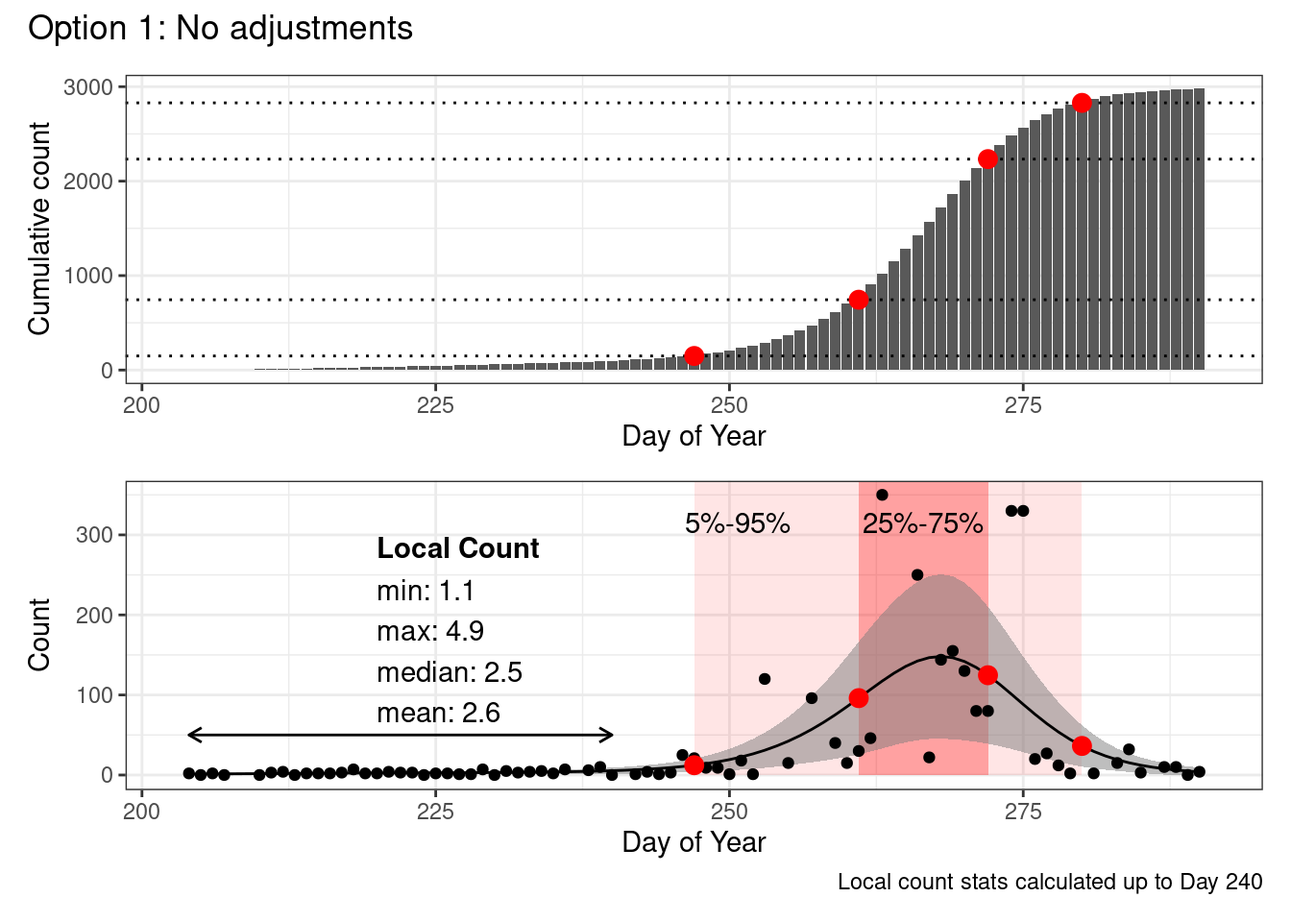
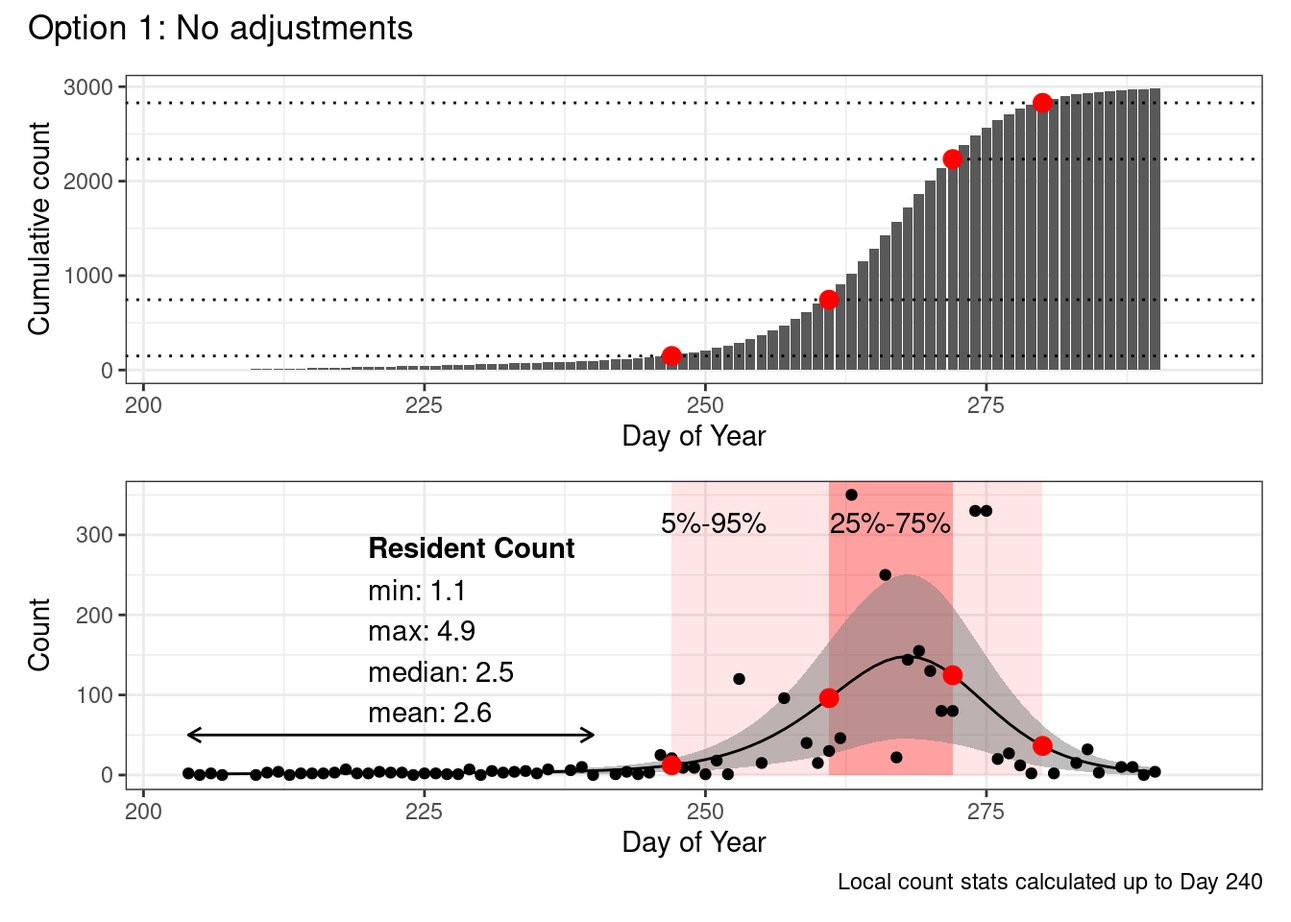
Update and add reproducibility

diff --git a/01_initial_exploration.html b/01_initial_exploration.html
@@ -7,7 +7,7 @@
 <meta name="viewport" content="width=device-width, initial-scale=1.0, user-scalable=yes">
 
 <meta name="author" content="Steffi">
-<meta name="dcterms.date" content="2023-11-07">
+<meta name="dcterms.date" content="2023-11-15">
 
 <title>Initial Exploration</title>
 <style>
@@ -90,15 +90,16 @@ pre > code.sourceCode > span > a:first-child::before { text-decoration: underlin
   <ul class="collapse">
   <li><a href="#steffis-suggested-approach" id="toc-steffis-suggested-approach" class="nav-link" data-scroll-target="#steffis-suggested-approach">Steffi’s suggested approach</a></li>
   </ul></li>
-  <li><a href="#using-gam-based-appraoch" id="toc-using-gam-based-appraoch" class="nav-link" data-scroll-target="#using-gam-based-appraoch">Using GAM based appraoch</a>
+  <li><a href="#gam" id="toc-gam" class="nav-link" data-scroll-target="#gam">Using GAM based appraoch</a>
   <ul class="collapse">
   <li><a href="#calculating-dates-of-passage" id="toc-calculating-dates-of-passage" class="nav-link" data-scroll-target="#calculating-dates-of-passage">Calculating dates of passage</a></li>
   <li><a href="#option-1-do-not-omit-resident-vultures" id="toc-option-1-do-not-omit-resident-vultures" class="nav-link" data-scroll-target="#option-1-do-not-omit-resident-vultures">Option 1: Do not omit resident vultures</a></li>
   <li><a href="#option-2-use-a-count-threshold-to-omit-dates-with-resident-vultures" id="toc-option-2-use-a-count-threshold-to-omit-dates-with-resident-vultures" class="nav-link" data-scroll-target="#option-2-use-a-count-threshold-to-omit-dates-with-resident-vultures">Option 2: Use a count threshold to omit dates with resident vultures</a></li>
-  <li><a href="#option-3-subtract-the-median-local-count-from-all-observations" id="toc-option-3-subtract-the-median-local-count-from-all-observations" class="nav-link" data-scroll-target="#option-3-subtract-the-median-local-count-from-all-observations">Option 3: Subtract the median local count from all observations</a></li>
+  <li><a href="#option-3" id="toc-option-3" class="nav-link" data-scroll-target="#option-3">Option 3: Subtract the median resident count from all observations</a></li>
   <li><a href="#comparing-our-options" id="toc-comparing-our-options" class="nav-link" data-scroll-target="#comparing-our-options">Comparing our options</a></li>
   <li><a href="#steffis-suggested-approach-1" id="toc-steffis-suggested-approach-1" class="nav-link" data-scroll-target="#steffis-suggested-approach-1">Steffi’s suggested approach</a></li>
   </ul></li>
+  <li><a href="#reproducibility" id="toc-reproducibility" class="nav-link" data-scroll-target="#reproducibility">Reproducibility</a></li>
   </ul>
 </nav>
 </div>
@@ -123,7 +124,7 @@ pre > code.sourceCode > span > a:first-child::before { text-decoration: underlin
     <div>
     <div class="quarto-title-meta-heading">Published</div>
     <div class="quarto-title-meta-contents">
-      <p class="date">November 7, 2023</p>
+      <p class="date">November 15, 2023</p>
     </div>
   </div>
   
@@ -288,7 +289,7 @@ pre > code.sourceCode > span > a:first-child::before { text-decoration: underlin
 <section id="questions" class="level2">
 <h2 class="anchored" data-anchor-id="questions">Questions</h2>
 <ol type="1">
-<li>Has the timing of kettle formating and migration has changed over the years?
+<li>Has the timing of kettle formation and migration has changed over the years?
 <ul>
 <li>If so, what is the pattern of change? (Direction and magnitude of change)</li>
 <li>If not, document temporal distribution of numbers</li>
@@ -345,8 +346,8 @@ pre > code.sourceCode > span > a:first-child::before { text-decoration: underlin
 <p>However, we will need to think about how to handle the resident birds, as they may artificially inflate the cumulative counts prior to migration.</p>
 </section>
 </section>
-<section id="using-gam-based-appraoch" class="level2">
-<h2 class="anchored" data-anchor-id="using-gam-based-appraoch">Using GAM based appraoch</h2>
+<section id="gam" class="level2">
+<h2 class="anchored" data-anchor-id="gam">Using GAM based appraoch</h2>
 <p>For illustration and exploration of this approach, we’ll look at 2000.</p>
 <div class="tabset-margin-container"></div><div class="panel-tabset">
 <ul class="nav nav-tabs" role="tablist"><li class="nav-item" role="presentation"><a class="nav-link active" id="tabset-4-1-tab" data-bs-toggle="tab" data-bs-target="#tabset-4-1" role="tab" aria-controls="tabset-4-1" aria-selected="true" href="">Example GAM - 2000</a></li><li class="nav-item" role="presentation"><a class="nav-link" id="tabset-4-2-tab" data-bs-toggle="tab" data-bs-target="#tabset-4-2" role="tab" aria-controls="tabset-4-2" aria-selected="false" href="">Model summary</a></li><li class="nav-item" role="presentation"><a class="nav-link" id="tabset-4-3-tab" data-bs-toggle="tab" data-bs-target="#tabset-4-3" role="tab" aria-controls="tabset-4-3" aria-selected="false" href="">Model evaluation</a></li></ul>
@@ -421,7 +422,7 @@ Basis dimension (k) checking results. Low p-value (k-index&lt;1) may
 indicate that k is too low, especially if edf is close to k'.
 
          k'  edf k-index p-value
-s(doy) 9.00 5.48    1.01    0.74</code></pre>
+s(doy) 9.00 5.48    1.01    0.76</code></pre>
 </div>
 <details>
 <summary>Code</summary>
@@ -470,14 +471,14 @@ s(doy) 9.00 5.48    1.01    0.74</code></pre>
 <span id="cb22-3"><a href="#cb22-3" aria-hidden="true" tabindex="-1"></a>dts <span class="ot">&lt;-</span> <span class="fu">calc_dates</span>(d_sum)</span>
 <span id="cb22-4"><a href="#cb22-4" aria-hidden="true" tabindex="-1"></a>dts_overall <span class="ot">&lt;-</span> <span class="fu">mutate</span>(dts, <span class="at">type =</span> <span class="st">"Option 1: No Adjustments"</span>)</span>
 <span id="cb22-5"><a href="#cb22-5" aria-hidden="true" tabindex="-1"></a></span>
-<span id="cb22-6"><a href="#cb22-6" aria-hidden="true" tabindex="-1"></a>local <span class="ot">&lt;-</span> d <span class="sc">|&gt;</span></span>
+<span id="cb22-6"><a href="#cb22-6" aria-hidden="true" tabindex="-1"></a>residents <span class="ot">&lt;-</span> d <span class="sc">|&gt;</span></span>
 <span id="cb22-7"><a href="#cb22-7" aria-hidden="true" tabindex="-1"></a>  <span class="fu">filter</span>(doy <span class="sc">&lt;</span> <span class="dv">240</span>) <span class="sc">|&gt;</span></span>
-<span id="cb22-8"><a href="#cb22-8" aria-hidden="true" tabindex="-1"></a>  <span class="fu">summarize</span>(<span class="at">min =</span> <span class="fu">min</span>(count), <span class="at">max =</span> <span class="fu">max</span>(count), </span>
-<span id="cb22-9"><a href="#cb22-9" aria-hidden="true" tabindex="-1"></a>            <span class="at">median =</span> <span class="fu">median</span>(count), <span class="at">mean =</span> <span class="fu">mean</span>(count)) <span class="sc">|&gt;</span></span>
+<span id="cb22-8"><a href="#cb22-8" aria-hidden="true" tabindex="-1"></a>  <span class="fu">summarize</span>(<span class="at">res_pop_min =</span> <span class="fu">min</span>(count), <span class="at">res_pop_max =</span> <span class="fu">max</span>(count), </span>
+<span id="cb22-9"><a href="#cb22-9" aria-hidden="true" tabindex="-1"></a>            <span class="at">res_pop_median =</span> <span class="fu">median</span>(count), <span class="at">res_pop_mean =</span> <span class="fu">mean</span>(count)) <span class="sc">|&gt;</span></span>
 <span id="cb22-10"><a href="#cb22-10" aria-hidden="true" tabindex="-1"></a>  <span class="fu">mutate</span>(<span class="fu">across</span>(<span class="fu">everything</span>(), \(x) <span class="fu">round</span>(x, <span class="dv">1</span>)))</span>
 <span id="cb22-11"><a href="#cb22-11" aria-hidden="true" tabindex="-1"></a></span>
-<span id="cb22-12"><a href="#cb22-12" aria-hidden="true" tabindex="-1"></a>g1 <span class="ot">&lt;-</span> <span class="fu">plot_cum</span>(<span class="at">d_sum =</span> d_sum, <span class="at">dts =</span> dts)</span>
-<span id="cb22-13"><a href="#cb22-13" aria-hidden="true" tabindex="-1"></a>g2 <span class="ot">&lt;-</span> <span class="fu">plot_model</span>(<span class="at">d_raw =</span> g<span class="sc">$</span>model, <span class="at">d_pred =</span> d, <span class="at">dts =</span> dts, <span class="at">local_cutoff =</span> <span class="dv">240</span>) <span class="sc">+</span></span>
+<span id="cb22-12"><a href="#cb22-12" aria-hidden="true" tabindex="-1"></a>g1 <span class="ot">&lt;-</span> <span class="fu">plot_cum_explore</span>(<span class="at">d_sum =</span> d_sum, <span class="at">dts =</span> dts)</span>
+<span id="cb22-13"><a href="#cb22-13" aria-hidden="true" tabindex="-1"></a>g2 <span class="ot">&lt;-</span> <span class="fu">plot_model_explore</span>(<span class="at">d_raw =</span> g<span class="sc">$</span>model, <span class="at">d_pred =</span> d, <span class="at">dts =</span> dts, residents, <span class="at">resident_date =</span> <span class="dv">240</span>) <span class="sc">+</span></span>
 <span id="cb22-14"><a href="#cb22-14" aria-hidden="true" tabindex="-1"></a>  <span class="fu">labs</span>(<span class="at">caption =</span> <span class="st">"Local count stats calculated up to Day 240"</span>)</span>
 <span id="cb22-15"><a href="#cb22-15" aria-hidden="true" tabindex="-1"></a>g_opt1 <span class="ot">&lt;-</span> g1 <span class="sc">/</span> g2 <span class="sc">+</span> <span class="fu">plot_annotation</span>(<span class="at">title =</span> <span class="st">"Option 1: No adjustments"</span>)</span></code><button title="Copy to Clipboard" class="code-copy-button"><i class="bi"></i></button></pre></div>
 </details>
@@ -563,54 +564,54 @@ s(doy) 9.00 5.48    1.01    0.74</code></pre>
 <span id="cb26-5"><a href="#cb26-5" aria-hidden="true" tabindex="-1"></a>dts_overall <span class="ot">&lt;-</span> <span class="fu">bind_rows</span>(dts_overall, </span>
 <span id="cb26-6"><a href="#cb26-6" aria-hidden="true" tabindex="-1"></a>                         <span class="fu">mutate</span>(dts, <span class="at">type =</span> <span class="st">"Option 2: Threshold"</span>))</span>
 <span id="cb26-7"><a href="#cb26-7" aria-hidden="true" tabindex="-1"></a></span>
-<span id="cb26-8"><a href="#cb26-8" aria-hidden="true" tabindex="-1"></a>local <span class="ot">&lt;-</span> d <span class="sc">|&gt;</span></span>
+<span id="cb26-8"><a href="#cb26-8" aria-hidden="true" tabindex="-1"></a>residents <span class="ot">&lt;-</span> d <span class="sc">|&gt;</span></span>
 <span id="cb26-9"><a href="#cb26-9" aria-hidden="true" tabindex="-1"></a>  <span class="fu">filter</span>(doy <span class="sc">&lt;</span> thresh) <span class="sc">|&gt;</span></span>
-<span id="cb26-10"><a href="#cb26-10" aria-hidden="true" tabindex="-1"></a>  <span class="fu">summarize</span>(<span class="at">min =</span> <span class="fu">min</span>(count), <span class="at">max =</span> <span class="fu">max</span>(count), </span>
-<span id="cb26-11"><a href="#cb26-11" aria-hidden="true" tabindex="-1"></a>            <span class="at">median =</span> <span class="fu">median</span>(count), <span class="at">mean =</span> <span class="fu">mean</span>(count)) <span class="sc">|&gt;</span></span>
+<span id="cb26-10"><a href="#cb26-10" aria-hidden="true" tabindex="-1"></a>  <span class="fu">summarize</span>(<span class="at">res_pop_min =</span> <span class="fu">min</span>(count), <span class="at">res_pop_max =</span> <span class="fu">max</span>(count), </span>
+<span id="cb26-11"><a href="#cb26-11" aria-hidden="true" tabindex="-1"></a>            <span class="at">res_pop_median =</span> <span class="fu">median</span>(count), <span class="at">res_pop_mean =</span> <span class="fu">mean</span>(count)) <span class="sc">|&gt;</span></span>
 <span id="cb26-12"><a href="#cb26-12" aria-hidden="true" tabindex="-1"></a>  <span class="fu">mutate</span>(<span class="fu">across</span>(<span class="fu">everything</span>(), \(x) <span class="fu">round</span>(x, <span class="dv">1</span>)))</span>
 <span id="cb26-13"><a href="#cb26-13" aria-hidden="true" tabindex="-1"></a></span>
 <span id="cb26-14"><a href="#cb26-14" aria-hidden="true" tabindex="-1"></a></span>
-<span id="cb26-15"><a href="#cb26-15" aria-hidden="true" tabindex="-1"></a>g1 <span class="ot">&lt;-</span> <span class="fu">plot_cum</span>(d_sum, dts) <span class="sc">+</span></span>
+<span id="cb26-15"><a href="#cb26-15" aria-hidden="true" tabindex="-1"></a>g1 <span class="ot">&lt;-</span> <span class="fu">plot_cum_explore</span>(d_sum, dts) <span class="sc">+</span></span>
 <span id="cb26-16"><a href="#cb26-16" aria-hidden="true" tabindex="-1"></a>  <span class="fu">geom_vline</span>(<span class="at">xintercept =</span> thresh, <span class="at">colour =</span> <span class="st">"red"</span>, <span class="at">linetype =</span> <span class="st">"dotted"</span>) <span class="sc">+</span></span>
 <span id="cb26-17"><a href="#cb26-17" aria-hidden="true" tabindex="-1"></a>  <span class="fu">annotate</span>(<span class="st">"text"</span>, <span class="at">label =</span> <span class="st">"Threshold"</span>, <span class="at">x =</span> thresh, <span class="at">y =</span> <span class="dv">1000</span>)</span>
-<span id="cb26-18"><a href="#cb26-18" aria-hidden="true" tabindex="-1"></a>g2 <span class="ot">&lt;-</span> <span class="fu">plot_model</span>(<span class="at">d_raw =</span> g<span class="sc">$</span>model, <span class="at">d_pred =</span> d, <span class="at">dts =</span> dts, <span class="at">local_cutoff =</span> thresh) <span class="sc">+</span></span>
-<span id="cb26-19"><a href="#cb26-19" aria-hidden="true" tabindex="-1"></a>  <span class="fu">labs</span>(<span class="at">caption =</span> <span class="fu">paste0</span>(<span class="st">"Local count stats calculated up to threshold date, "</span>, thresh))</span>
+<span id="cb26-18"><a href="#cb26-18" aria-hidden="true" tabindex="-1"></a>g2 <span class="ot">&lt;-</span> <span class="fu">plot_model_explore</span>(<span class="at">d_raw =</span> g<span class="sc">$</span>model, <span class="at">d_pred =</span> d, <span class="at">dts =</span> dts, residents, <span class="at">resident_date =</span> thresh) <span class="sc">+</span></span>
+<span id="cb26-19"><a href="#cb26-19" aria-hidden="true" tabindex="-1"></a>  <span class="fu">labs</span>(<span class="at">caption =</span> <span class="fu">paste0</span>(<span class="st">"Resident count stats calculated up to threshold date, "</span>, thresh))</span>
 <span id="cb26-20"><a href="#cb26-20" aria-hidden="true" tabindex="-1"></a>  </span>
 <span id="cb26-21"><a href="#cb26-21" aria-hidden="true" tabindex="-1"></a>g_opt2 <span class="ot">&lt;-</span> g1 <span class="sc">/</span> g2 <span class="sc">+</span> <span class="fu">plot_annotation</span>(<span class="at">title =</span> <span class="st">"Option 2: Use only dates after threshold"</span>)</span></code><button title="Copy to Clipboard" class="code-copy-button"><i class="bi"></i></button></pre></div>
 </details>
 </div>
 </section>
-<section id="option-3-subtract-the-median-local-count-from-all-observations" class="level3">
-<h3 class="anchored" data-anchor-id="option-3-subtract-the-median-local-count-from-all-observations">Option 3: Subtract the median local count from all observations</h3>
+<section id="option-3" class="level3">
+<h3 class="anchored" data-anchor-id="option-3">Option 3: Subtract the median resident count from all observations</h3>
 <ul>
 <li>Use entire date range</li>
 <li>No threshold cutoff</li>
-<li>Subtract the median local count from the predicted observations, prior to calculating the cumulative counts</li>
-<li>Calculate local counts from predicted data before Day 240</li>
+<li>Subtract the median resident count from the predicted observations, prior to calculating the cumulative counts</li>
+<li>Calculate resident counts from predicted data before Day 240</li>
 </ul>
 <div class="cell">
 <details>
 <summary>Code</summary>
-<div class="sourceCode cell-code" id="cb27"><pre class="sourceCode r code-with-copy"><code class="sourceCode r"><span id="cb27-1"><a href="#cb27-1" aria-hidden="true" tabindex="-1"></a>local <span class="ot">&lt;-</span> d <span class="sc">|&gt;</span></span>
+<div class="sourceCode cell-code" id="cb27"><pre class="sourceCode r code-with-copy"><code class="sourceCode r"><span id="cb27-1"><a href="#cb27-1" aria-hidden="true" tabindex="-1"></a>residents <span class="ot">&lt;-</span> d <span class="sc">|&gt;</span></span>
 <span id="cb27-2"><a href="#cb27-2" aria-hidden="true" tabindex="-1"></a>  <span class="fu">filter</span>(doy <span class="sc">&lt;</span> <span class="dv">240</span>) <span class="sc">|&gt;</span></span>
-<span id="cb27-3"><a href="#cb27-3" aria-hidden="true" tabindex="-1"></a>  <span class="fu">summarize</span>(<span class="at">min =</span> <span class="fu">min</span>(count), <span class="at">max =</span> <span class="fu">max</span>(count), </span>
-<span id="cb27-4"><a href="#cb27-4" aria-hidden="true" tabindex="-1"></a>            <span class="at">median =</span> <span class="fu">median</span>(count), <span class="at">mean =</span> <span class="fu">mean</span>(count)) <span class="sc">|&gt;</span></span>
+<span id="cb27-3"><a href="#cb27-3" aria-hidden="true" tabindex="-1"></a>  <span class="fu">summarize</span>(<span class="at">res_pop_min =</span> <span class="fu">min</span>(count), <span class="at">res_pop_max =</span> <span class="fu">max</span>(count), </span>
+<span id="cb27-4"><a href="#cb27-4" aria-hidden="true" tabindex="-1"></a>            <span class="at">res_pop_median =</span> <span class="fu">median</span>(count), <span class="at">res_pop_mean =</span> <span class="fu">mean</span>(count)) <span class="sc">|&gt;</span></span>
 <span id="cb27-5"><a href="#cb27-5" aria-hidden="true" tabindex="-1"></a>  <span class="fu">mutate</span>(<span class="fu">across</span>(<span class="fu">everything</span>(), \(x) <span class="fu">round</span>(x, <span class="dv">1</span>)))</span>
 <span id="cb27-6"><a href="#cb27-6" aria-hidden="true" tabindex="-1"></a></span>
 <span id="cb27-7"><a href="#cb27-7" aria-hidden="true" tabindex="-1"></a>d_sum <span class="ot">&lt;-</span> <span class="fu">mutate</span>(d, </span>
-<span id="cb27-8"><a href="#cb27-8" aria-hidden="true" tabindex="-1"></a>                <span class="at">count =</span> count <span class="sc">-</span> local<span class="sc">$</span>median,</span>
+<span id="cb27-8"><a href="#cb27-8" aria-hidden="true" tabindex="-1"></a>                <span class="at">count =</span> count <span class="sc">-</span> residents<span class="sc">$</span>res_pop_median,</span>
 <span id="cb27-9"><a href="#cb27-9" aria-hidden="true" tabindex="-1"></a>                <span class="at">count_sum =</span> <span class="fu">cumsum</span>(count))</span>
 <span id="cb27-10"><a href="#cb27-10" aria-hidden="true" tabindex="-1"></a></span>
 <span id="cb27-11"><a href="#cb27-11" aria-hidden="true" tabindex="-1"></a>dts <span class="ot">&lt;-</span> <span class="fu">calc_dates</span>(d_sum)</span>
 <span id="cb27-12"><a href="#cb27-12" aria-hidden="true" tabindex="-1"></a>dts_overall <span class="ot">&lt;-</span> <span class="fu">bind_rows</span>(dts_overall, </span>
 <span id="cb27-13"><a href="#cb27-13" aria-hidden="true" tabindex="-1"></a>                         <span class="fu">mutate</span>(dts, <span class="at">type =</span> <span class="st">"Option 3: Subtraction"</span>))</span>
 <span id="cb27-14"><a href="#cb27-14" aria-hidden="true" tabindex="-1"></a></span>
-<span id="cb27-15"><a href="#cb27-15" aria-hidden="true" tabindex="-1"></a>g1 <span class="ot">&lt;-</span> <span class="fu">plot_cum</span>(<span class="at">d_sum =</span> d_sum, <span class="at">dts =</span> dts) <span class="sc">+</span></span>
+<span id="cb27-15"><a href="#cb27-15" aria-hidden="true" tabindex="-1"></a>g1 <span class="ot">&lt;-</span> <span class="fu">plot_cum_explore</span>(<span class="at">d_sum =</span> d_sum, <span class="at">dts =</span> dts) <span class="sc">+</span></span>
 <span id="cb27-16"><a href="#cb27-16" aria-hidden="true" tabindex="-1"></a>  <span class="fu">annotate</span>(<span class="st">"text"</span>, <span class="at">x =</span> <span class="dv">225</span>, <span class="at">y =</span> <span class="dv">1000</span>,</span>
 <span id="cb27-17"><a href="#cb27-17" aria-hidden="true" tabindex="-1"></a>           <span class="at">label =</span> <span class="fu">paste0</span>(<span class="st">"Remove "</span>, </span>
-<span id="cb27-18"><a href="#cb27-18" aria-hidden="true" tabindex="-1"></a>                          local<span class="sc">$</span>median, </span>
+<span id="cb27-18"><a href="#cb27-18" aria-hidden="true" tabindex="-1"></a>                          residents<span class="sc">$</span>res_pop_median, </span>
 <span id="cb27-19"><a href="#cb27-19" aria-hidden="true" tabindex="-1"></a>                          <span class="st">" from all counts</span><span class="sc">\n</span><span class="st">before calcuating cumuative sum"</span>))</span>
-<span id="cb27-20"><a href="#cb27-20" aria-hidden="true" tabindex="-1"></a>g2 <span class="ot">&lt;-</span> <span class="fu">plot_model</span>(<span class="at">d_raw =</span> g<span class="sc">$</span>model, <span class="at">d_pred =</span> d, <span class="at">dts =</span> dts, <span class="at">local_cutoff =</span> <span class="dv">240</span>) <span class="sc">+</span></span>
+<span id="cb27-20"><a href="#cb27-20" aria-hidden="true" tabindex="-1"></a>g2 <span class="ot">&lt;-</span> <span class="fu">plot_model_explore</span>(<span class="at">d_raw =</span> g<span class="sc">$</span>model, <span class="at">d_pred =</span> d, <span class="at">dts =</span> dts, residents, <span class="at">resident_date =</span> <span class="dv">240</span>) <span class="sc">+</span></span>
 <span id="cb27-21"><a href="#cb27-21" aria-hidden="true" tabindex="-1"></a>  <span class="fu">labs</span>(<span class="at">caption =</span> <span class="st">"Local count stats calculated up to Day 240"</span>)</span>
 <span id="cb27-22"><a href="#cb27-22" aria-hidden="true" tabindex="-1"></a>g_opt3 <span class="ot">&lt;-</span> g1 <span class="sc">/</span> g2 <span class="sc">+</span> <span class="fu">plot_annotation</span>(<span class="at">title =</span> <span class="st">"Option 3: Subtract median first"</span>)</span></code><button title="Copy to Clipboard" class="code-copy-button"><i class="bi"></i></button></pre></div>
 </details>
@@ -639,8 +640,8 @@ s(doy) 9.00 5.48    1.01    0.74</code></pre>
 <p>Here are the dates calculated for each percentiles using the different methods in this example.</p>
 <div class="cell">
 <div class="sourceCode cell-code" id="cb31"><pre class="sourceCode r code-with-copy"><code class="sourceCode r"><span id="cb31-1"><a href="#cb31-1" aria-hidden="true" tabindex="-1"></a>dts_overall <span class="sc">|&gt;</span></span>
-<span id="cb31-2"><a href="#cb31-2" aria-hidden="true" tabindex="-1"></a>  <span class="fu">select</span>(<span class="sc">-</span>y1, <span class="sc">-</span>y) <span class="sc">|&gt;</span></span>
-<span id="cb31-3"><a href="#cb31-3" aria-hidden="true" tabindex="-1"></a>  <span class="fu">pivot_wider</span>(<span class="at">names_from =</span> <span class="st">"perc"</span>, <span class="at">values_from =</span> <span class="st">"x"</span>)</span></code><button title="Copy to Clipboard" class="code-copy-button"><i class="bi"></i></button></pre></div>
+<span id="cb31-2"><a href="#cb31-2" aria-hidden="true" tabindex="-1"></a>  <span class="fu">select</span>(<span class="sc">-</span><span class="fu">contains</span>(<span class="st">"count"</span>)) <span class="sc">|&gt;</span></span>
+<span id="cb31-3"><a href="#cb31-3" aria-hidden="true" tabindex="-1"></a>  <span class="fu">pivot_wider</span>(<span class="at">names_from =</span> <span class="st">"perc"</span>, <span class="at">values_from =</span> <span class="st">"doy_passage"</span>)</span></code><button title="Copy to Clipboard" class="code-copy-button"><i class="bi"></i></button></pre></div>
 <div class="cell-output cell-output-stdout">
 <pre><code># A tibble: 3 × 5
   type                       p05   p25   p75   p95
@@ -669,6 +670,142 @@ s(doy) 9.00 5.48    1.01    0.74</code></pre>
 <li>I could run all three methods on the full data set and we could check them all together.</li>
 </ul>
 </section>
+</section>
+<section id="reproducibility" class="level2">
+<h2 class="anchored" data-anchor-id="reproducibility">Reproducibility</h2>
+<div class="cell">
+<div class="sourceCode cell-code" id="cb33"><pre class="sourceCode r code-with-copy"><code class="sourceCode r"><span id="cb33-1"><a href="#cb33-1" aria-hidden="true" tabindex="-1"></a>devtools<span class="sc">::</span><span class="fu">session_info</span>()</span></code><button title="Copy to Clipboard" class="code-copy-button"><i class="bi"></i></button></pre></div>
+<div class="cell-output cell-output-stdout">
+<pre><code>─ Session info ───────────────────────────────────────────────────────────────
+ setting  value
+ version  R version 4.3.2 (2023-10-31)
+ os       Ubuntu 22.04.3 LTS
+ system   x86_64, linux-gnu
+ ui       X11
+ language en_CA:en
+ collate  en_CA.UTF-8
+ ctype    en_CA.UTF-8
+ tz       America/Winnipeg
+ date     2023-11-15
+ pandoc   3.1.1 @ /usr/lib/rstudio/resources/app/bin/quarto/bin/tools/ (via rmarkdown)
+
+─ Packages ───────────────────────────────────────────────────────────────────
+ package      * version  date (UTC) lib source
+ bit            4.0.5    2022-11-15 [1] CRAN (R 4.3.0)
+ bit64          4.0.5    2020-08-30 [1] CRAN (R 4.3.0)
+ boot           1.3-28   2021-05-03 [4] CRAN (R 4.2.0)
+ cachem         1.0.8    2023-05-01 [1] CRAN (R 4.3.0)
+ callr          3.7.3    2022-11-02 [1] CRAN (R 4.3.0)
+ cellranger     1.1.0    2016-07-27 [1] CRAN (R 4.3.0)
+ cli            3.6.1    2023-03-23 [1] CRAN (R 4.3.0)
+ codetools      0.2-19   2023-02-01 [4] CRAN (R 4.2.2)
+ colorspace     2.1-0    2023-01-23 [1] CRAN (R 4.3.0)
+ crayon         1.5.2    2022-09-29 [1] CRAN (R 4.3.0)
+ devtools       2.4.5    2022-10-11 [1] CRAN (R 4.3.0)
+ DHARMa         0.4.6    2022-09-08 [1] CRAN (R 4.3.1)
+ digest         0.6.33   2023-07-07 [1] CRAN (R 4.3.1)
+ doParallel     1.0.17   2022-02-07 [1] CRAN (R 4.3.1)
+ dplyr        * 1.1.3    2023-09-03 [1] CRAN (R 4.3.1)
+ ellipsis       0.3.2    2021-04-29 [1] CRAN (R 4.3.0)
+ evaluate       0.23     2023-11-01 [1] CRAN (R 4.3.1)
+ fansi          1.0.5    2023-10-08 [1] CRAN (R 4.3.1)
+ farver         2.1.1    2022-07-06 [1] CRAN (R 4.3.0)
+ fastmap        1.1.1    2023-02-24 [1] CRAN (R 4.3.0)
+ forcats      * 1.0.0    2023-01-29 [1] CRAN (R 4.3.0)
+ foreach        1.5.2    2022-02-02 [1] CRAN (R 4.3.0)
+ fs             1.6.3    2023-07-20 [1] CRAN (R 4.3.1)
+ gamm4          0.2-6    2020-04-03 [1] CRAN (R 4.3.1)
+ gap            1.5-3    2023-08-26 [1] CRAN (R 4.3.1)
+ gap.datasets   0.0.6    2023-08-25 [1] CRAN (R 4.3.1)
+ generics       0.1.3    2022-07-05 [1] CRAN (R 4.3.0)
+ GGally         2.1.2    2021-06-21 [1] CRAN (R 4.3.1)
+ ggplot2      * 3.4.4    2023-10-12 [1] CRAN (R 4.3.1)
+ glue           1.6.2    2022-02-24 [1] CRAN (R 4.3.0)
+ gridExtra      2.3      2017-09-09 [1] CRAN (R 4.3.0)
+ gtable         0.3.4    2023-08-21 [1] CRAN (R 4.3.1)
+ hms            1.1.3    2023-03-21 [1] CRAN (R 4.3.0)
+ htmltools      0.5.7    2023-11-03 [1] CRAN (R 4.3.1)
+ htmlwidgets    1.6.2    2023-03-17 [1] CRAN (R 4.3.0)
+ httpuv         1.6.12   2023-10-23 [1] CRAN (R 4.3.1)
+ iterators      1.0.14   2022-02-05 [1] CRAN (R 4.3.0)
+ jsonlite       1.8.7    2023-06-29 [1] CRAN (R 4.3.1)
+ KernSmooth     2.23-22  2023-07-10 [1] CRAN (R 4.3.1)
+ knitr          1.45     2023-10-30 [1] CRAN (R 4.3.1)
+ labeling       0.4.3    2023-08-29 [1] CRAN (R 4.3.1)
+ later          1.3.1    2023-05-02 [1] CRAN (R 4.3.1)
+ lattice        0.22-5   2023-10-24 [4] CRAN (R 4.3.1)
+ lifecycle      1.0.3    2022-10-07 [1] CRAN (R 4.3.0)
+ lme4           1.1-35.1 2023-11-05 [1] CRAN (R 4.3.1)
+ lubridate    * 1.9.3    2023-09-27 [1] CRAN (R 4.3.1)
+ magrittr       2.0.3    2022-03-30 [1] CRAN (R 4.3.0)
+ MASS           7.3-60   2023-05-04 [4] CRAN (R 4.3.1)
+ Matrix         1.6-1.1  2023-09-18 [1] CRAN (R 4.3.1)
+ matrixStats    1.0.0    2023-06-02 [1] CRAN (R 4.3.1)
+ memoise        2.0.1    2021-11-26 [1] CRAN (R 4.3.0)
+ mgcv         * 1.9-0    2023-07-11 [1] CRAN (R 4.3.1)
+ mgcViz         0.1.11   2023-10-06 [1] CRAN (R 4.3.1)
+ mime           0.12     2021-09-28 [1] CRAN (R 4.3.0)
+ miniUI         0.1.1.1  2018-05-18 [1] CRAN (R 4.3.0)
+ minqa          1.2.6    2023-09-11 [1] CRAN (R 4.3.1)
+ munsell        0.5.0    2018-06-12 [1] CRAN (R 4.3.0)
+ nlme         * 3.1-163  2023-08-09 [4] CRAN (R 4.3.1)
+ nloptr         2.0.3    2022-05-26 [1] CRAN (R 4.3.0)
+ patchwork    * 1.1.3    2023-08-14 [1] CRAN (R 4.3.1)
+ pillar         1.9.0    2023-03-22 [1] CRAN (R 4.3.0)
+ pkgbuild       1.4.2    2023-06-26 [1] CRAN (R 4.3.1)
+ pkgconfig      2.0.3    2019-09-22 [1] CRAN (R 4.3.0)
+ pkgload        1.3.3    2023-09-22 [1] CRAN (R 4.3.1)
+ plyr           1.8.9    2023-10-02 [1] CRAN (R 4.3.1)
+ prettyunits    1.2.0    2023-09-24 [1] CRAN (R 4.3.1)
+ processx       3.8.2    2023-06-30 [1] CRAN (R 4.3.1)
+ profvis        0.3.8    2023-05-02 [1] CRAN (R 4.3.1)
+ promises       1.2.1    2023-08-10 [1] CRAN (R 4.3.1)
+ ps             1.7.5    2023-04-18 [1] CRAN (R 4.3.0)
+ purrr        * 1.0.2    2023-08-10 [1] CRAN (R 4.3.1)
+ qgam           1.3.4    2021-11-22 [1] CRAN (R 4.3.1)
+ R6             2.5.1    2021-08-19 [1] CRAN (R 4.3.0)
+ rbibutils      2.2.16   2023-10-25 [1] CRAN (R 4.3.1)
+ RColorBrewer   1.1-3    2022-04-03 [1] CRAN (R 4.3.0)
+ Rcpp           1.0.11   2023-07-06 [1] CRAN (R 4.3.1)
+ Rdpack         2.5      2023-08-21 [1] CRAN (R 4.3.1)
+ readr        * 2.1.4    2023-02-10 [1] CRAN (R 4.3.0)
+ readxl       * 1.4.3    2023-07-06 [1] CRAN (R 4.3.1)
+ remotes        2.4.2.1  2023-07-18 [1] CRAN (R 4.3.1)
+ reshape        0.8.9    2022-04-12 [1] CRAN (R 4.3.1)
+ rlang          1.1.2    2023-11-04 [1] CRAN (R 4.3.1)
+ rmarkdown      2.25     2023-09-18 [1] CRAN (R 4.3.1)
+ rstudioapi     0.15.0   2023-07-07 [1] CRAN (R 4.3.1)
+ scales         1.2.1    2022-08-20 [1] CRAN (R 4.3.0)
+ sessioninfo    1.2.2    2021-12-06 [1] CRAN (R 4.3.0)
+ shiny          1.7.5.1  2023-10-14 [1] CRAN (R 4.3.1)
+ stringi        1.7.12   2023-01-11 [1] CRAN (R 4.3.0)
+ stringr      * 1.5.0    2022-12-02 [1] CRAN (R 4.3.0)
+ tibble       * 3.2.1    2023-03-20 [1] CRAN (R 4.3.0)
+ tidyr        * 1.3.0    2023-01-24 [1] CRAN (R 4.3.0)
+ tidyselect     1.2.0    2022-10-10 [1] CRAN (R 4.3.0)
+ tidyverse    * 2.0.0    2023-02-22 [1] CRAN (R 4.3.0)
+ timechange     0.2.0    2023-01-11 [1] CRAN (R 4.3.0)
+ tzdb           0.4.0    2023-05-12 [1] CRAN (R 4.3.1)
+ urlchecker     1.0.1    2021-11-30 [1] CRAN (R 4.3.0)
+ usethis        2.2.2    2023-07-06 [1] CRAN (R 4.3.1)
+ utf8           1.2.4    2023-10-22 [1] CRAN (R 4.3.1)
+ vctrs          0.6.4    2023-10-12 [1] CRAN (R 4.3.1)
+ viridis        0.6.4    2023-07-22 [1] CRAN (R 4.3.1)
+ viridisLite    0.4.2    2023-05-02 [1] CRAN (R 4.3.1)
+ vroom          1.6.4    2023-10-02 [1] CRAN (R 4.3.1)
+ withr          2.5.2    2023-10-30 [1] CRAN (R 4.3.1)
+ xfun           0.41     2023-11-01 [1] CRAN (R 4.3.1)
+ xtable         1.8-4    2019-04-21 [1] CRAN (R 4.3.0)
+ yaml           2.3.7    2023-01-23 [1] CRAN (R 4.3.0)
+
+ [1] /home/steffi/R/x86_64-pc-linux-gnu-library/4.3
+ [2] /usr/local/lib/R/site-library
+ [3] /usr/lib/R/site-library
+ [4] /usr/lib/R/library
+
+──────────────────────────────────────────────────────────────────────────────</code></pre>
+</div>
+</div>
 </section>
 
 
